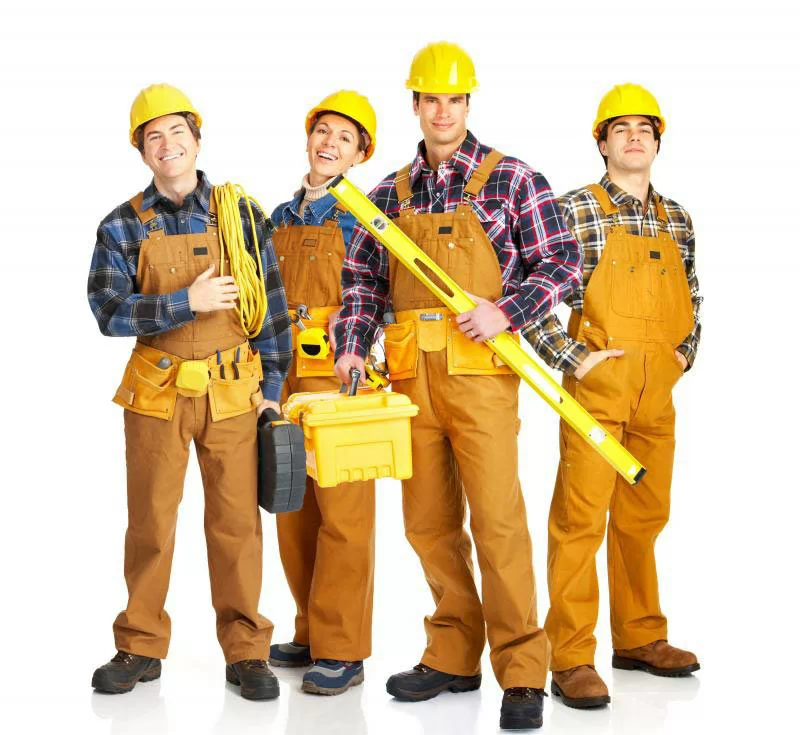
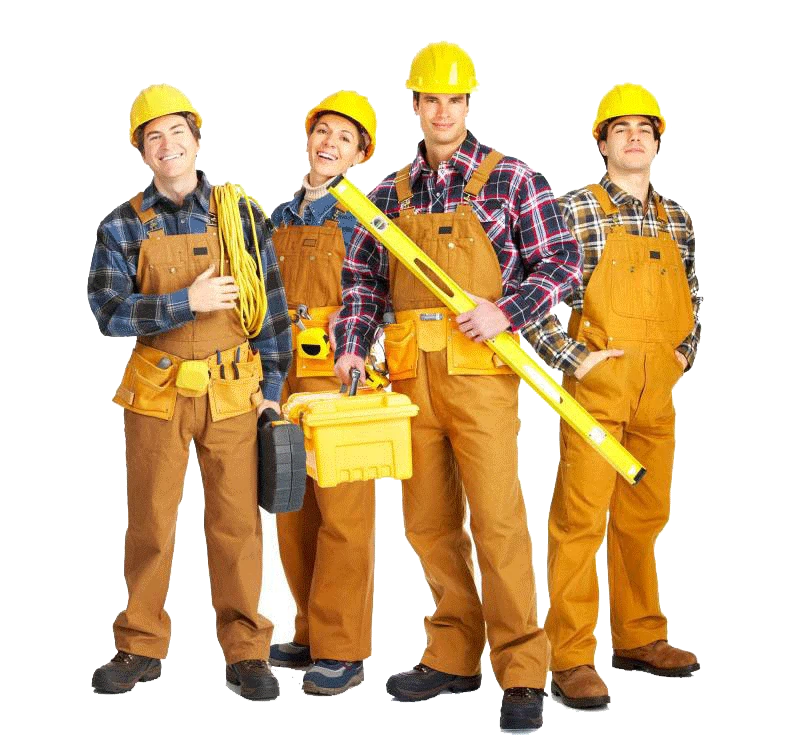
исправлен файл contacts-image.webp, добавлена прозрачноcть

diff --git a/index.html b/index.html
@@ -203,7 +203,7 @@
 				</a>
 			</p>		
       <picture>
-        <!--<source srcset="images/contacts-image.webp" type="image/webp">-->
+        <source srcset="images/contacts-image.webp" type="image/webp">
         <img src="images/contacts-image.png" alt="Фотография"/>
       </picture>  
 		</section>
